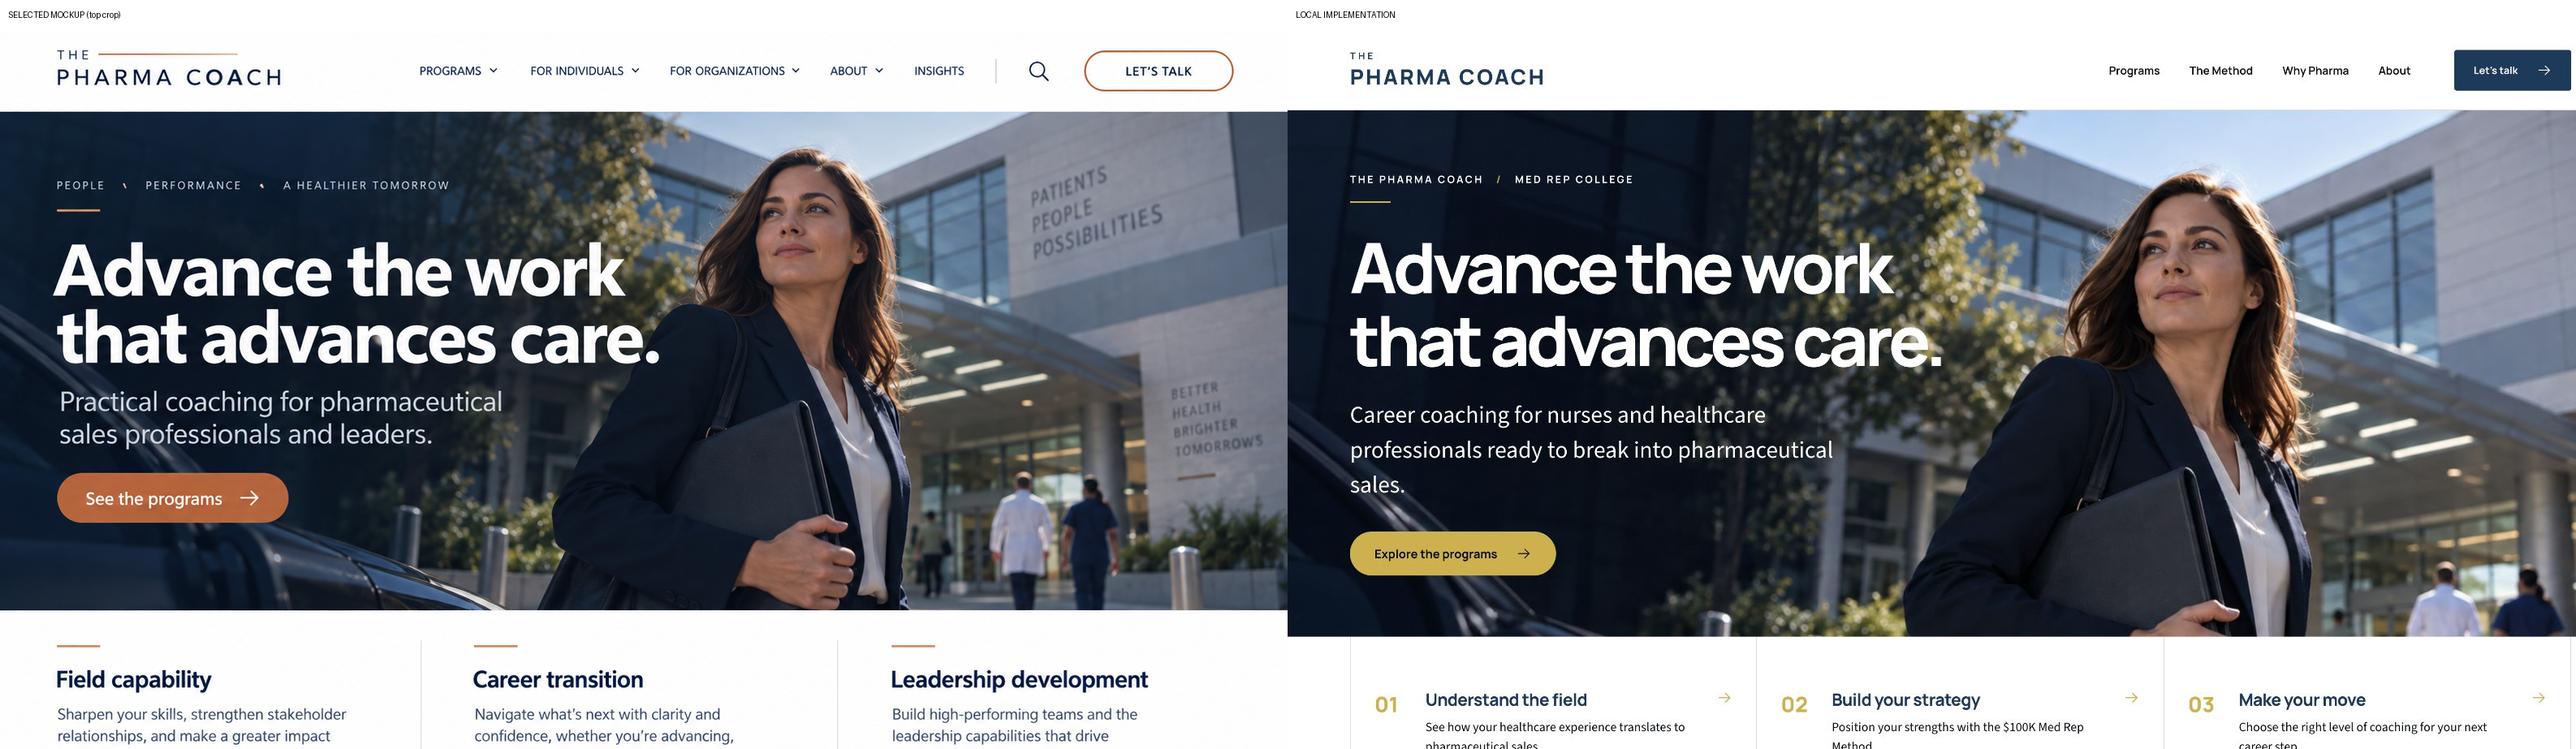
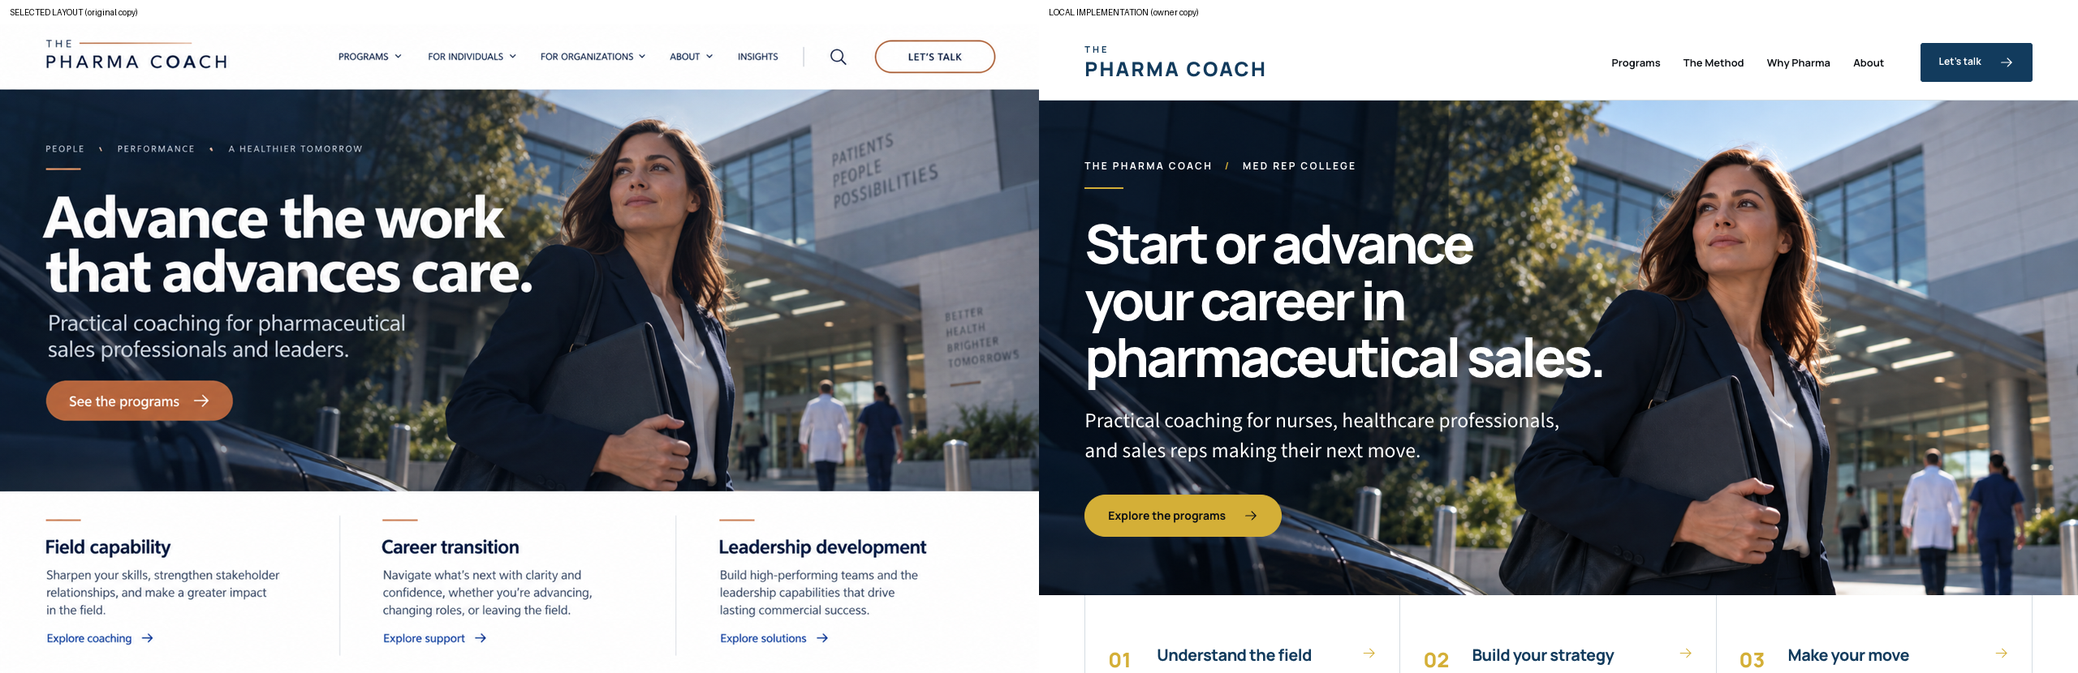
Update pharma sales hero for career growth

diff --git a/index.html b/index.html
@@ -3,14 +3,14 @@
   <head>
     <meta charset="UTF-8" />
     <meta name="viewport" content="width=device-width, initial-scale=1.0" />
-    <meta name="description" content="Pharmaceutical sales career coaching for nurses and healthcare professionals ready to leverage their clinical knowledge and start a career in pharma sales." />
-    <meta name="theme-color" content="#0a0c10" />
-    <meta property="og:title" content="The Pharma Coach | Break Into Medical Sales" />
-    <meta property="og:description" content="Turn your healthcare experience as a nurse into a successful career in pharmaceutical sales." />
+    <meta name="description" content="Start or advance your career in pharmaceutical sales with practical coaching for nurses, healthcare professionals, and sales reps." />
+    <meta name="theme-color" content="#0B0F14" />
+    <meta property="og:title" content="Start or Advance Your Pharmaceutical Sales Career | The Pharma Coach" />
+    <meta property="og:description" content="Practical coaching for nurses, healthcare professionals, and sales reps making their next move in pharmaceutical sales." />
     <meta property="og:type" content="website" />
     <meta property="og:image" content="assets/source/4310ea7e87b3a0cc-decoded.png" />
     <link rel="alternate" type="text/markdown" href="index.md" />
-    <title>Break Into Pharmaceutical Sales | The Pharma Coach</title>
+    <title>Start or Advance Your Pharmaceutical Sales Career | The Pharma Coach</title>
   </head>
   <body>
     <div id="root"></div>

diff --git a/src/App.jsx b/src/App.jsx
@@ -53,8 +53,8 @@ export function App() {
           <img className="hero__image" src={`${A}pharma-field-hero.png`} alt="Pharmaceutical sales professional arriving at a healthcare facility" />
           <div className="hero__copy">
             <p className="eyebrow eyebrow--light">The Pharma Coach <span aria-hidden="true">/</span> Med Rep College</p>
-            <h1 id="hero-title">Advance the work that advances care.</h1>
-            <p className="lead">Career coaching for nurses and healthcare professionals ready to break into pharmaceutical sales.</p>
+            <h1 id="hero-title">Start or advance your career in pharmaceutical sales.</h1>
+            <p className="lead">Practical coaching for nurses, healthcare professionals, and sales reps making their next move.</p>
             <Button href="#programs" tone="gold">Explore the programs</Button>
           </div>
         </section>

diff --git a/design-qa.md b/design-qa.md
@@ -6,14 +6,14 @@ Final result: passed
 
 - Source visual truth: `/Users/shanee/.codex/generated_images/01a0ca4c-3874-7e33-bf6b-6e85cbaeeaeb/exec-df940300-767b-4978-81aa-0a6aaae0bc32.png` (the selected "Advance the work" concept), 1586 × 992 pixels.
 - Owner override: Jebb's 2026-09-21 email "colors for websites and emails + fonts" specifies `#0B0F14`, `#FFFFFF`, `#123B5D`, `#D4AF37`, Manrope headings, and Source Sans 3 body. These take precedence over the mockup's copper color and placeholder typography.
-- Browser-rendered implementation: `design-qa-desktop.png`, 1587 × 885 pixels, captured at a 1587 × 960 CSS viewport with the in-app browser's visible capture area at 885 pixels high; device scale 1.
+- Browser-rendered implementation: `design-qa-desktop.png`, 1280 × 800 pixels, captured at a 1280 × 800 CSS viewport with Playwright CLI; device scale 1. The in-app Browser was used first, but its resized captures composited duplicate page regions during this copy update, so Playwright supplied the clean QA screenshots.
 - Mobile implementation: `design-qa-mobile.png`, 390 × 844 pixels at a 390 × 844 CSS viewport; device scale 1.
-- Full-view same-input comparison: `design-qa-comparison.png`, source and implementation side-by-side, both cropped to the same 885-pixel visible height. The source's 1-pixel width difference is immaterial.
+- Full-view same-input comparison: `design-qa-comparison.png`, source and implementation side-by-side. The 1586 × 992 concept was resized to 1280 × 800 to normalize density and viewport; the resulting comparison is 2560 × 830 with a 30px label strip.
 - State: homepage at top, navigation closed. Primary interactions were also tested in the browser.
 
 ## Findings
 
-No remaining P0, P1, or P2 visual or interaction findings. The implementation retains the selected white masthead, photographic full-width hero, oversized left-aligned headline, restrained CTA, and three-column capability band. The copy is intentionally adjusted to the site's verified audience: nurses and healthcare professionals transitioning into pharmaceutical sales, rather than the mockup's already-established reps and leaders.
+No remaining P0, P1, or P2 visual or interaction findings. The implementation retains the selected white masthead, photographic full-width hero, oversized left-aligned headline, restrained CTA, and three-column capability band. Shanee's latest approved headline, "Start or advance your career in pharmaceutical sales," intentionally replaces the concept's headline. Supporting copy now includes both new entrants and advancing sales reps.
 
 The five required fidelity surfaces were checked:
 
@@ -21,15 +21,16 @@ The five required fidelity surfaces were checked:
 - Spacing and layout: after reducing hero height and widening the content grid, the masthead, hero, and capability strip align with the selected composition. Desktop, tablet (820px), and mobile (390px) were visually checked.
 - Colors and tokens: effective site colors use Jebb's black, white, navy, and gold; muted surfaces are transparent navy on white. The mockup's copper was intentionally rejected.
 - Image quality: new generated field-sales hero and HCP-conversation assets replace the nurse-at-home imagery in key sales sections. Image subjects, crop, sharpness, and text contrast were checked; generated characters and facility are fictional and documented in `public/assets/source/ASSET-SOURCES.md`.
-- Copy and content: homepage target, program names, prices, and existing official conversion destinations were retained; hero and capability language now explain the visitor's concrete job.
+- Copy and content: owner-approved hero wording and matching browser title/metadata are present; program names, prices, and existing official conversion destinations were retained. Above-the-fold copy diff: headline and subhead changed by owner request; eyebrow, CTA, navigation, and capability labels did not change.
 
-Focused review of the hero in the comparison image found the head crop and the beginning of the three-column strip to be the main fidelity risks. Both were corrected. No separate focused crop was needed because these details are readable in the 3173-pixel-wide comparison image.
+Focused review of the hero in the comparison image found the head crop and the beginning of the three-column strip to be the main fidelity risks. Both were corrected. No separate focused crop was needed because these details are readable in the 2560-pixel-wide comparison image.
 
 ## Comparison history
 
 1. First desktop capture: the 700px hero pushed the three-column strip below the visible fold; the oversized crop cut into the subject's head. The mobile menu also stayed open after an anchor click.
 2. Fixes: reduced desktop hero to 610px, widened the desktop content frame, moved image crop to top, and closed the mobile menu on navigation.
-3. Post-fix evidence: `design-qa-comparison.png`; mobile screenshot and browser interaction check confirm the menu closes and the `#programs` target appears. FAQ expansion was tested. Browser error/warning log was empty.
+3. Post-fix evidence: `design-qa-comparison.png`; mobile screenshot and browser interaction check confirm the menu closes and the `#programs` target appears. FAQ expansion was tested.
+4. Owner copy update: the headline, subhead, and page metadata were changed to address both starting and advancing a pharmaceutical-sales career. Clean 1280 × 800 and 390 × 844 screenshots show no clipping or primary-control obstruction. The only Playwright console error was a pre-existing missing `/favicon.ico` (P3, unrelated to this copy change).
 
 ## Follow-up polish
 

diff --git a/AGENTS.md b/AGENTS.md
@@ -11,3 +11,5 @@ Build app UI in `src/`. Keep `.openai/hosting.json`, `worker/index.js`, `scripts
 ## Owner-approved visual direction (2026-09-22)
 
 Shanee selected the "Advance the work" homepage layout after reviewing Pfizer and Siemens Healthineers as credibility references. Use their restraint and hierarchy as inspiration, not their branding. Jebb's email, "colors for websites and emails + fonts" (2026-09-21), is the palette and type source of truth: inky black `#0B0F14`, white `#FFFFFF`, deep navy `#123B5D`, classic metallic gold `#D4AF37`; Manrope for H1/H2 and titles, Source Sans 3 for paragraphs and supporting copy. Do not revive the prior cobalt/lime palette or the generic nurse-at-home hero. Keep the site about The Pharma Coach and pharmaceutical-sales career transition, not a generic medtech corporation.
+
+Shanee's approved hero message is "Start or advance your career in pharmaceutical sales." Keep the selected layout while making the offer relevant to both newcomers and people moving forward in the field.
